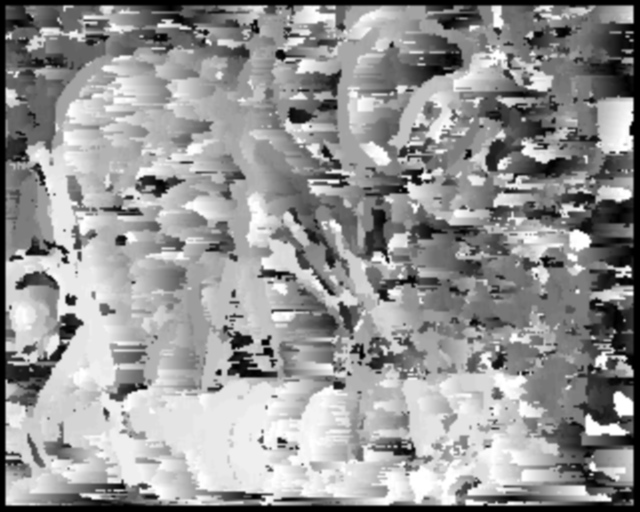
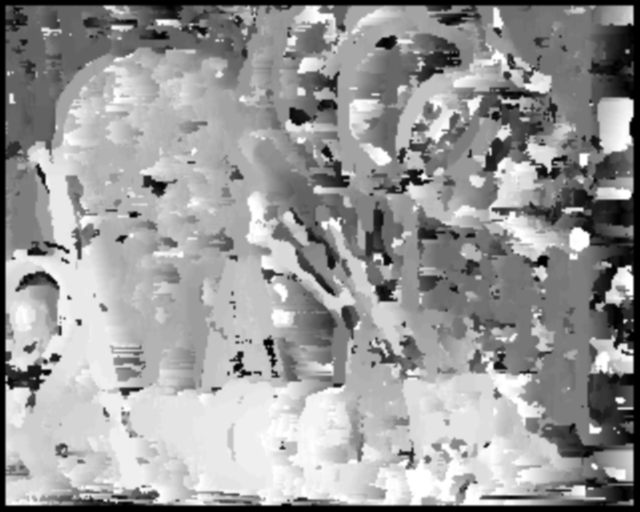
Add final results of PS2

diff --git a/ps2_python/ps2.py b/ps2_python/ps2.py
@@ -6,12 +6,14 @@ import cv2
 from disparity_ssd import *
 from disparity_ncorr import *
 
+use_subsampling = True
+
 ## 1: SSD match algorithm
 def ps2_1():
     # Read images
     L = cv2.imread('input/pair0-L.png', cv2.IMREAD_GRAYSCALE) * (1.0 / 255.0)
     R = cv2.imread('input/pair0-R.png', cv2.IMREAD_GRAYSCALE) * (1.0 / 255.0)
-    # Compute disparity (using method disparity_ssd defined in disparity_ssd.py)
+    # Compute disparity using method ssd template matching
     D_L = disparity_ssd(L, R, block_size=11, disparity_range=30)
     D_R = disparity_ssd(R, L, block_size=11, disparity_range=30)
     # shift and scale disparity maps
@@ -25,15 +27,23 @@ def ps2_1():
 def ps2_2():
     L = cv2.imread('input/pair1-L.png', cv2.IMREAD_GRAYSCALE)
     R = cv2.imread('input/pair1-R.png', cv2.IMREAD_GRAYSCALE)
-    L = cv2.pyrDown(L) * (1.0 / 255.0)
-    R = cv2.pyrDown(R) * (1.0 / 255.0)
+    #  subsample and convert to [0,1] scale
+    if use_subsampling:
+        L = cv2.pyrDown(L)
+        R = cv2.pyrDown(R)
+    L = L * (1.0 / 255.0)
+    R = R * (1.0 / 255.0)
+    # compute disparity maps
     bs = 7; dr = 100; l = 0.0
     D_L = np.abs(disparity_ssd(L, R, block_size=bs, disparity_range=dr, lambda_factor=l))
     D_R = np.abs(disparity_ssd(R, L, block_size=bs, disparity_range=dr, lambda_factor=l))
+    # shift and scale disparity maps
     D_L = cv2.normalize(D_L, D_L, alpha=0, beta=255, norm_type=cv2.NORM_MINMAX, dtype=cv2.CV_8U)
     D_R = cv2.normalize(D_R, D_R, alpha=0, beta=255, norm_type=cv2.NORM_MINMAX, dtype=cv2.CV_8U)
-    D_L = cv2.pyrUp(D_L)
-    D_R = cv2.pyrUp(D_R)
+    #  revert dimensions by upsampling if previously downsampled
+    if use_subsampling:
+        D_L = cv2.pyrUp(D_L)
+        D_R = cv2.pyrUp(D_R)
     cv2.imwrite('output/ps2-2-a-1.png', D_L)
     cv2.imwrite('output/ps2-2-a-2.png', D_R)
 
@@ -42,14 +52,18 @@ def ps2_3():
     # read real image pair in grayscale
     L = cv2.imread('input/pair1-L.png', cv2.IMREAD_GRAYSCALE)
     R = cv2.imread('input/pair1-R.png', cv2.IMREAD_GRAYSCALE)
-    L = cv2.pyrDown(L) * (1.0 / 255.0)
-    R = cv2.pyrDown(R) * (1.0 / 255.0)
-    # add noise to the left image
+    #  subsample and convert to [0,1] scale
+    if use_subsampling:
+        L = cv2.pyrDown(L)
+        R = cv2.pyrDown(R)
+    L = L * (1.0 / 255.0)
+    R = R * (1.0 / 255.0)
+    # add noise or increase contrast to the left image
     noise = np.empty(L.shape, np.float32)
     cv2.randn(noise, 0, 0.05);
-    L_n = L + noise # add noise to left image
-    L_c = L * 1.1  # increase contrast by 10% of left image
-    # compute disparity maps
+    L_n = L + noise
+    L_c = L * 1.1
+    # compute disparity maps using ssd template matching
     bs = 7; l = 0.0; dr = 100
     D_L_n = np.abs(disparity_ssd(L_n, R, block_size=bs, disparity_range=dr, lambda_factor=l))
     D_R_n = np.abs(disparity_ssd(R, L_n, block_size=bs, disparity_range=dr, lambda_factor=l))
@@ -68,18 +82,19 @@ def ps2_3():
                           dtype=cv2.CV_8U)
     D_R_c = cv2.normalize(D_R_c, D_R_c, alpha=0, beta=255, norm_type=cv2.NORM_MINMAX,
                           dtype=cv2.CV_8U)
-    # revert dimensions
-    L_n = cv2.pyrUp(L_n)
-    L_c = cv2.pyrUp(L_c)
-    D_L_n = cv2.pyrUp(D_L_n)
-    D_L_c = cv2.pyrUp(D_L_c)
-    D_R_n = cv2.pyrUp(D_R_n)
-    D_R_c = cv2.pyrUp(D_R_c)
+    #  revert dimensions by upsampling if previously downsampled
+    if use_subsampling:
+        L_n = cv2.pyrUp(L_n)
+        L_c = cv2.pyrUp(L_c)
+        D_L_n = cv2.pyrUp(D_L_n)
+        D_L_c = cv2.pyrUp(D_L_c)
+        D_R_n = cv2.pyrUp(D_R_n)
+        D_R_c = cv2.pyrUp(D_R_c)
     # save disparity maps
-    cv2.imwrite('output/ps2-3-a-0.png', L_n)
+    cv2.imwrite('output/pair1-L-noisy.png', L_n)
     cv2.imwrite('output/ps2-3-a-1.png', D_L_n)
     cv2.imwrite('output/ps2-3-a-2.png', D_R_n)
-    cv2.imwrite('output/ps2-3-b-0.png', L_c)
+    cv2.imwrite('output/pair1-L-contrast.png', L_c)
     cv2.imwrite('output/ps2-3-b-1.png', D_L_c)
     cv2.imwrite('output/ps2-3-b-2.png', D_R_c)
 
@@ -88,8 +103,12 @@ def ps2_4():
     # read real image pair in grayscale
     L = cv2.imread('input/pair1-L.png', cv2.IMREAD_GRAYSCALE)
     R = cv2.imread('input/pair1-R.png', cv2.IMREAD_GRAYSCALE)
-    L = cv2.pyrDown(L) * (1.0 / 255.0)
-    R = cv2.pyrDown(R) * (1.0 / 255.0)
+    # downsample images and convert to [0,1] scale
+    if use_subsampling:
+        L = cv2.pyrDown(L)
+        R = cv2.pyrDown(R)
+    L = L * (1.0 / 255.0)
+    R = R * (1.0 / 255.0)
     # distort left image using a) gaussian noise and b) increase in contrast
     noise = np.empty(L.shape, np.float)
     cv2.randn(noise, 0, 0.05);
@@ -116,13 +135,15 @@ def ps2_4():
                           norm_type=cv2.NORM_MINMAX, dtype=cv2.CV_8U)
     D_R_c = cv2.normalize(D_R_c, D_R_c, alpha=0, beta=255,
                           norm_type=cv2.NORM_MINMAX, dtype=cv2.CV_8U)
+    #  revert dimensions by upsampling if previously downsampled
+    if use_subsampling:
+        D_L = cv2.pyrUp(D_L)
+        D_R = cv2.pyrUp(D_R)
+        D_L_n = cv2.pyrUp(D_L_n)
+        D_R_n = cv2.pyrUp(D_R_n)
+        D_L_c = cv2.pyrUp(D_L_c)
+        D_R_c = cv2.pyrUp(D_R_c)
     # save disparity maps
-    D_L = cv2.pyrUp(D_L)
-    D_R = cv2.pyrUp(D_R)
-    D_L_n = cv2.pyrUp(D_L_n)
-    D_R_n = cv2.pyrUp(D_R_n)
-    D_L_c = cv2.pyrUp(D_L_c)
-    D_R_c = cv2.pyrUp(D_R_c)
     cv2.imwrite('output/ps2-4-a-1.png', D_L)
     cv2.imwrite('output/ps2-4-a-2.png', D_R)
     cv2.imwrite('output/ps2-4-b-1.png', D_L_n)
@@ -136,7 +157,7 @@ def ps2_5():
     # read real image pair in grayscale
     L = cv2.imread('input/pair2-L.png', cv2.IMREAD_GRAYSCALE)
     R = cv2.imread('input/pair2-R.png', cv2.IMREAD_GRAYSCALE)
-    # TODO: smoothen, sharpen etc. to get better results
+    # equalize, smoothen, downsample and convert to [0,1] scale
     L = cv2.pyrDown(cv2.GaussianBlur(cv2.equalizeHist(L), (5,)*2, 3))
     R = cv2.pyrDown(cv2.GaussianBlur(cv2.equalizeHist(R), (5,)*2, 3))
     L = L * 1.0 / 255.0
@@ -148,15 +169,18 @@ def ps2_5():
     # shift and scale disparity maps
     D_L = cv2.normalize(D_L, D_L, alpha=0, beta=255, norm_type=cv2.NORM_MINMAX, dtype=cv2.CV_8U)
     D_R = cv2.normalize(D_R, D_R, alpha=0, beta=255, norm_type=cv2.NORM_MINMAX, dtype=cv2.CV_8U)
-    # upsample the disparity maps
-    D_L = cv2.pyrUp(D_L)
-    D_R = cv2.pyrUp(D_R)
+    # upsample the disparity maps if previously downsampled
+    if use_subsampling:
+        D_L = cv2.pyrUp(D_L)
+        D_R = cv2.pyrUp(D_R)
     #  sharpen the disparity maps
     #  kernel = np.array([[-1,-1,-1], [-1,9,-1], [-1,-1,-1]])
     #  D_L = cv2.filter2D(D_L, -1, kernel)
     #  D_R = cv2.filter2D(D_R, -1, kernel)
+    # equalize and smoothen disparity maps
     D_L = cv2.GaussianBlur(cv2.equalizeHist(D_L), (5,)*2, 3)
     D_R = cv2.GaussianBlur(cv2.equalizeHist(D_R), (5,)*2, 3)    # save disparity maps
+    # write disparity maps to files
     cv2.imwrite('output/ps2-5-a-1.png', D_L)
     cv2.imwrite('output/ps2-5-a-2.png', D_R)
 

diff --git a/ps2_python/color_to_gray.py b/ps2_python/color_to_gray.py
@@ -1,0 +1,12 @@
+import cv2
+import numpy as np
+
+L1 = cv2.imread('input/pair1-L.png', cv2.IMREAD_GRAYSCALE)
+R1 = cv2.imread('input/pair1-R.png', cv2.IMREAD_GRAYSCALE)
+L2 = cv2.imread('input/pair2-L.png', cv2.IMREAD_GRAYSCALE)
+R2 = cv2.imread('input/pair2-R.png', cv2.IMREAD_GRAYSCALE)
+
+cv2.imwrite('output/pair1-L-gray.png', L1)
+cv2.imwrite('output/pair1-R-gray.png', R1)
+cv2.imwrite('output/pair2-L-gray.png', L2)
+cv2.imwrite('output/pair2-R-gray.png', R2)

diff --git a/ps2_python/README.md b/ps2_python/README.md
@@ -4,7 +4,7 @@
 Input stereo image pair (L,R):  
 <img src="input/pair0-L.png" height="180">
 <img src="input/pair0-R.png" height="180">  
-a) Disparity maps of the stereo image pair using SSD template matching  
+Disparity maps of the stereo image pair using SSD template matching:  
 <img src="output/ps2-1-a-1.png" height="180">
 <img src="output/ps2-1-a-2.png" height="180">
 
@@ -14,59 +14,43 @@ Input stereo image pair:
 <img src="input/pair1-L.png" height="180">
 <img src="input/pair1-R.png" height="180">  
 Disparity maps ground truth:  
-<img src="input/pair0-D_L.png" height="180">
-<img src="input/pair0-D_R.png" height="180">  
+<img src="input/pair1-D_L.png" height="180">
+<img src="input/pair1-D_R.png" height="180">  
 Produced disparity maps:  
 <img src="output/ps2-2-a-1.png" height="180">
 <img src="output/ps2-2-a-2.png" height="180">
 
-###3. Demonstration of perturbations induced by gaussian noise when using SSD template matching
+###3. Perturbations in SSD template matching due to noise
 Input stereo image pair with noisy left image and resulting disparity maps:  
-<img src="output/ps2-3-a-0.png" height="180">
-<img src="input/pair1-R.png" height="180">
+<img src="output/pair1-L-noisy.png" height="180">
+<img src="output/pair1-R-gray.png" height="180">  
 <img src="output/ps2-3-a-1.png" height="180">
 <img src="output/ps2-3-a-2.png" height="180">  
 Stereo image pair with increased contrast(10%) in left image and resulting disparity maps:  
-<img src="output/ps2-3-a-0.png" height="180">
-<img src="input/pair1-R.png" height="180">
+<img src="output/pair1-L-contrast.png" height="180">
+<img src="output/pair1-R-gray.png" height="180">  
 <img src="output/ps2-3-a-1.png" height="180">
 <img src="output/ps2-3-a-2.png" height="180">
 
 
 ###4. Stereo correspondence using Normalized Correlation
-Input stereo image pair:  
-<img src="input/pair0-L.png" height="180">
-<img src="input/pair0-R.png" height="180">
-a) Disparity maps of the stereo image pair using normalized correlation template matching:  
+Input stereo image pair in grayscale:  
+<img src="output/pair1-L-gray.png" height="180">
+<img src="output/pair1-R-gray.png" height="180">
+Disparity maps of the stereo image pair using normalized correlation template matching:  
 <img src="output/ps2-4-a-1.png" height="180">
 <img src="output/ps2-4-a-2.png" height="180">  
-b) Disparity maps of noisy stereo image pairs:  
+Disparity maps of noisy stereo image pairs using normalized correlation template matching:  
 <img src="output/ps2-4-b-1.png" height="180">
 <img src="output/ps2-4-b-2.png" height="180">  
-c) Disparity maps of contrast-bossted stereo image pair:  
+Disparity maps of contrast-bossted stereo image pair using normalized correlation template matching:  
 <img src="output/ps2-4-b-3.png" height="180">
 <img src="output/ps2-4-b-4.png" height="180">
 
-###5. Stereo correspondence after pre/post-processing(smoothing, sharpening etc.)
+###5. Stereo correspondence after pre/post-processing
 Input stereo image pair:  
-<img src="input/pair2-L.png" height="180">
-<img src="input/pair2-R.png" height="180">  
-Preprocessed input stereo image pair:  
-<img src="output/ps2-5-a-0-1.png" height="180">
-<img src="output/ps2-5-a-0-2.png" height="180">
-<img src="output/.png" height="180">  
+<img src="output/pair2-L-gray.png" height="180">
+<img src="output/pair2-R-gray.png" height="180">  
 Disparity maps:  
-<img src="output/ps2-5-a-0-3.png" height="180">
-<img src="output/ps2-5-a-0-4.png" height="180">  
-Postprocessed disparity maps (final result):  
-<img src="output/ps2-5-a-1-1.png" height="180">
+<img src="output/ps2-5-a-1.png" height="180">
 <img src="output/ps2-5-a-2.png" height="180">  
-
-### 6. Stereo correspondence using opencv:
-Input stereo image pair:  
-<img src="input/pair2-L.png" height="180">
-<img src="input/pair2-R.png" height="180">  
-Disparity maps:  
-<img src="output/ps2-6-a-1.png" height="180">
-<img src="output/ps2-6-a-2.png" height="180">  
-
